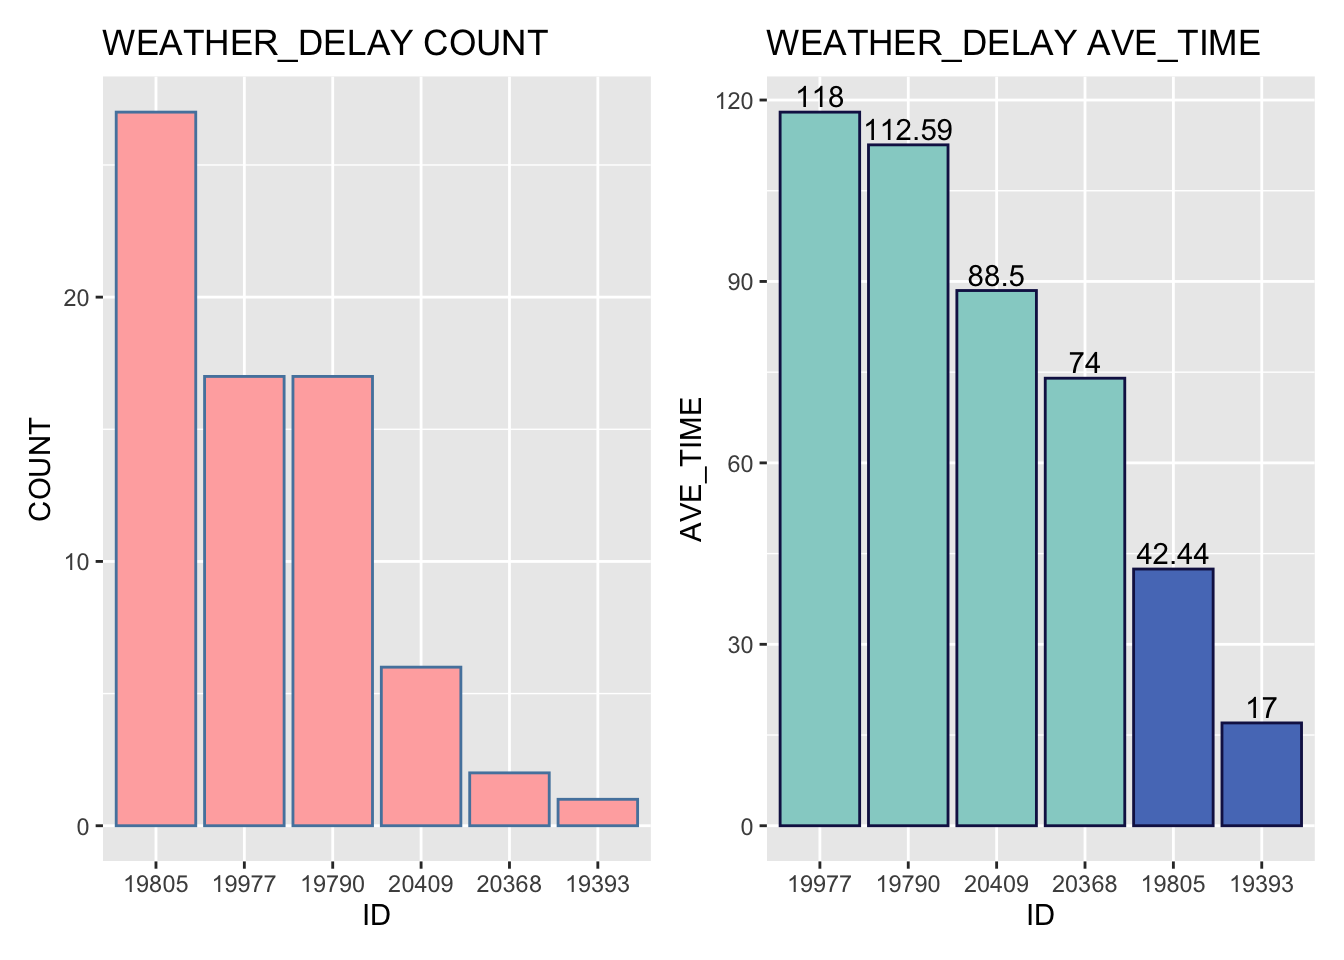
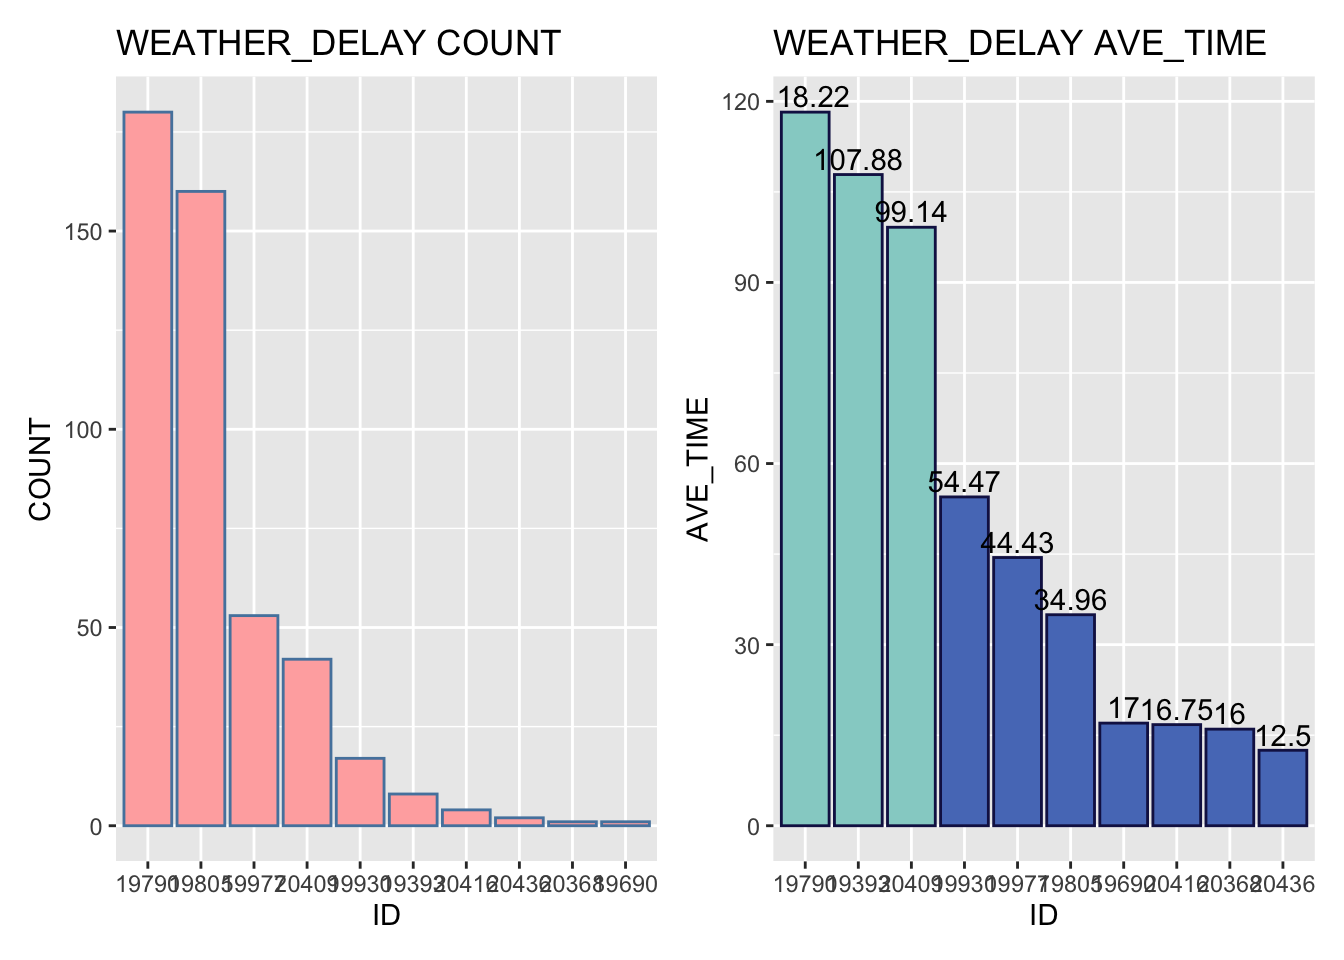
used US data in results part; problem 1 commentary done

Changed region(s): [[0.0625, 0.0312, 1.0, 0.9688]]

diff --git a/docs/results.html b/docs/results.html
@@ -24,7 +24,7 @@
 <meta name="author" content="Ziyan Liu, Mingyue Xu" />
 
 
-<meta name="date" content="2021-12-10" />
+<meta name="date" content="2021-12-11" />
 
   <meta name="viewport" content="width=device-width, initial-scale=1" />
   <meta name="apple-mobile-web-app-capable" content="yes" />
@@ -77,7 +77,11 @@
 <li class="chapter" data-level="2" data-path="data-sources.html"><a href="data-sources.html"><i class="fa fa-check"></i><b>2</b> Data sources</a></li>
 <li class="chapter" data-level="3" data-path="data-transformation.html"><a href="data-transformation.html"><i class="fa fa-check"></i><b>3</b> Data transformation</a></li>
 <li class="chapter" data-level="4" data-path="missing-values.html"><a href="missing-values.html"><i class="fa fa-check"></i><b>4</b> Missing values</a></li>
-<li class="chapter" data-level="5" data-path="results.html"><a href="results.html"><i class="fa fa-check"></i><b>5</b> Results</a></li>
+<li class="chapter" data-level="5" data-path="results.html"><a href="results.html"><i class="fa fa-check"></i><b>5</b> Results</a>
+<ul>
+<li class="chapter" data-level="5.0.1" data-path="results.html"><a href="results.html#compare-carriers-on-time-performance"><i class="fa fa-check"></i><b>5.0.1</b> Compare Carriers’ On-Time Performance</a></li>
+<li class="chapter" data-level="5.0.2" data-path="results.html"><a href="results.html#on-time-performance-accross-the-day"><i class="fa fa-check"></i><b>5.0.2</b> On-Time Performance Accross the Day</a></li>
+</ul></li>
 <li class="chapter" data-level="6" data-path="interactive-component.html"><a href="interactive-component.html"><i class="fa fa-check"></i><b>6</b> Interactive component</a></li>
 <li class="chapter" data-level="7" data-path="conclusion.html"><a href="conclusion.html"><i class="fa fa-check"></i><b>7</b> Conclusion</a></li>
 <li class="divider"></li>
@@ -101,22 +105,39 @@
             <section class="normal" id="section-">
 <div id="results" class="section level1" number="5">
 <h1><span class="header-section-number">Chapter 5</span> Results</h1>
-<p>PROBLEM ONE: Among all the carriers that provide commercial services in U.S., are there any carriers that have major delay problems? For example, the average delay time is over 60 minutes.</p>
+<!-- PROBLEM ONE: Among all the carriers that provide commercial services in U.S., are there any carriers that have major delay problems? For example, the average delay time is over 60 minutes. -->
+<div id="compare-carriers-on-time-performance" class="section level3" number="5.0.1">
+<h3><span class="header-section-number">5.0.1</span> Compare Carriers’ On-Time Performance</h3>
+<p>As we can see from the figure below, <code>Delta Air Lines Inc.</code> have over 3,000 flights delayed during January 2019 from and to New York state, <code>American Airlines Inc.</code> also have more than 2,000 flights delayed, and the number is approximately 1.200 for <code>JetBlue Airways</code>. This is justifiable since these are the major airlines that conduct the most domestic flights, and the number of delayed flights, certainly, increases as the number of total conducted flights increases. Note that this figure only shows the number of times that delay occurs. On the other side, we need to evaluate the average severity of the delays, i.e. the average time of the delays for each carrier.</p>
 <p><img src="finalproj_files/figure-html/airline%20delay%20count-1.png" width="672" /></p>
-<p>The dataframe <code>NY_Jan_delayCount</code> shows the number of delays for each carrier within the January. We plot a simple bar graph to manifest the result more explicitly. Note that this figure only shows the number of times that the delay occurs, on the other side, we need to evaluate the averaged severity of the delays, i.e. the averaged time of the delays for each carrier.</p>
+<!-- The dataframe `NY_Jan_delayCount` shows the number of delays for each carrier within January. We plot a simple bar graph to manifest the result more explicitly. Note that this figure only shows the number of times that the delay occurs, on the other side, we need to evaluate the averaged severity of the delays, i.e. the averaged time of the delays for each carrier. -->
+<p>Therefore, we make another bar plot manifesting the average delay time for each carrier airline. Using the same dataset as above (flights from and to New York state during January 2019), we can see that <code>United Air Lines Inc</code> have the longest average delay time of 104.83 minutes. <code>Hawaiian Airlines Inc.</code>, <code>Spirit Air Lines</code>, <code>Delta Air Lines Inc.</code>, <code>JetBlue Airways</code>, <code>American Airlines Inc.</code> and <code>Frontier Airlines Inc.</code> all have average delay time longer than an hour.</p>
 <p><img src="finalproj_files/figure-html/airline%20delay%20average-1.png" width="672" /></p>
-<p>Moreover, we hope to explore the results for concrete delay reasons, i.e. <code>CARRIER_DELAY</code>, <code>WEATHER_DELAY</code>, <code>NAS_DELAY</code>, <code>SECURITY_DELAY</code> and <code>LATE_AIRCRAFT_DELAY</code>,</p>
+<p>Moreover, we hope to explore the results for concrete delay reasons, i.e. <code>CARRIER_DELAY</code>, <code>WEATHER_DELAY</code>, <code>NAS_DELAY</code>, <code>SECURITY_DELAY</code> and <code>LATE_AIRCRAFT_DELAY</code>. For each reason, we make two figures showing the count of delays and average delay time with respect to each carrier.
+From the figures, we can find that the most common and severe reason causing flight delays is <code>LATE_AIRCRAFT_DELAY</code>, which presumably can be due to the late arrival or preceding flights. There are almost 2,000 <code>Delta Air Lines Inc.</code> flights are delayed due to this reason, and the average waiting time exceeds 2 hours for <code>Hawaiian Airlines Inc.</code> flights.
+The second most common reason is <code>NAS_DELAY</code>, i.e., national air system delay, but the average time caused by this is typically not as long as that caused by other reasons, mostly within an hour.
+<code>CARRIER_DELAY</code> is the third most common reason that causes delays. This happens a lot of times for <code>Delta Air Lines Inc.</code>, <code>JetBlue Airways</code>, and <code>American Airlines Inc.</code>. On average, when this happens, the waiting time for <code>United Air Lines Inc.</code> flights is over 100 minutes.
+<code>WEATHER_DELAY</code> is less frequent than the three above. <code>Delta Air Lines Inc.</code> and <code>American Airlines Inc.</code> have about 150 delays caused by weather, which is a very small proportion of all delays. However, the time is highly variable- the longest is 118 minutes for <code>Delta Air Lines Inc.</code>, and the shortest is only 12.5 minutes.
+Among all 5 reasons, <code>SECURITY_DELAY</code> is the rarest, and only occurs 15 times. Therefore, we do not discuss this reason in detail.</p>
 <p><img src="finalproj_files/figure-html/delay%20reason-1.png" width="672" /><img src="finalproj_files/figure-html/delay%20reason-2.png" width="672" /><img src="finalproj_files/figure-html/delay%20reason-3.png" width="672" /><img src="finalproj_files/figure-html/delay%20reason-4.png" width="672" /><img src="finalproj_files/figure-html/delay%20reason-5.png" width="672" /></p>
-<p>PROBLEM TWO: Are early flights or late flights more likely to delay? Do origin and destination influence the on-time performance?</p>
+<!-- PROBLEM TWO: Are early flights or late flights more likely to delay? Do origin and destination influence the on-time performance? -->
+</div>
+<div id="on-time-performance-accross-the-day" class="section level3" number="5.0.2">
+<h3><span class="header-section-number">5.0.2</span> On-Time Performance Accross the Day</h3>
+<p>In addition to comparing the differences among the various airlines, we also compared the on-time performance of flights at difference time of a day. We divide the 24 hours of a day into 8 groups, one group every three hours, and calculated the average delay time of departure and arrival. As we can see in the plot below, flight performance of 2020 is obviously better than in 2019. The green horizontal line at level 0 indicates the flight delays or not. Specifically, flights in 2020 almost arrive in advance to their destination no matter they departs lately or not. Unfortunately, flights in 2019 almost depart lately. Moreover, late flights seem to performance worse than early flights in general.</p>
 <p><img src="finalproj_files/figure-html/performance%20based%20on%20CRS_DEP_TIME-1.png" width="672" /></p>
 <p><img src="finalproj_files/figure-html/unnamed-chunk-6-1.png" width="672" /></p>
+<p>The plot shows the performance of flights from NY to other states within US. Almost all subgraphs indicate similar conclusions in the previous picture, i.e. flight performance of 2020 is obviously better than in 2019, and also late flights seem to performance worse than early flights. Note that flights to some destinations e.g. HI, MT, NM, are only provided in certain periods, which may caused by the distance and passenger volume.</p>
 <pre><code>##  [1] &quot;12&quot; &quot;03&quot; &quot;06&quot; &quot;09&quot; &quot;01&quot; &quot;04&quot; &quot;07&quot; &quot;10&quot; &quot;02&quot; &quot;05&quot; &quot;08&quot; &quot;11&quot;</code></pre>
 <p><img src="finalproj_files/figure-html/unnamed-chunk-7-1.png" width="672" /></p>
-<p><img src="finalproj_files/figure-html/unnamed-chunk-8-1.png" width="672" /></p>
+<p>The plot above shows flights performance in each months, which also yields the two conclusions mentioned berofe. Moreover, some other interesting observations are: (1) Note that in winter (Dec, Jan, Feb), flight performance is in general worse than in other seasons, especially for those late flights, which may due to the cold weather. (2) Season Fall seems to have the best flight performance.</p>
+<p><img src="finalproj_files/figure-html/unnamed-chunk-8-1.png" width="672" /><img src="finalproj_files/figure-html/unnamed-chunk-8-2.png" width="672" /></p>
+<p>3D plot is more powerful to show the variation of a quantity grouped by multi-indexes.</p>
 <p>PROBLEM THREE: Specifically for NYC. If someone wants to come to NYC, which airport should s/he choose to fly to based on the origin city?</p>
 <p><img src="finalproj_files/figure-html/to%20NYC%20problem-1.png" width="672" /></p>
 <p><img src="finalproj_files/figure-html/unnamed-chunk-9-1.png" width="672" /></p>
 
+</div>
 </div>
             </section>
 

diff --git a/docs/data-transformation.html b/docs/data-transformation.html
@@ -24,7 +24,7 @@
 <meta name="author" content="Ziyan Liu, Mingyue Xu" />
 
 
-<meta name="date" content="2021-12-10" />
+<meta name="date" content="2021-12-11" />
 
   <meta name="viewport" content="width=device-width, initial-scale=1" />
   <meta name="apple-mobile-web-app-capable" content="yes" />
@@ -77,7 +77,11 @@
 <li class="chapter" data-level="2" data-path="data-sources.html"><a href="data-sources.html"><i class="fa fa-check"></i><b>2</b> Data sources</a></li>
 <li class="chapter" data-level="3" data-path="data-transformation.html"><a href="data-transformation.html"><i class="fa fa-check"></i><b>3</b> Data transformation</a></li>
 <li class="chapter" data-level="4" data-path="missing-values.html"><a href="missing-values.html"><i class="fa fa-check"></i><b>4</b> Missing values</a></li>
-<li class="chapter" data-level="5" data-path="results.html"><a href="results.html"><i class="fa fa-check"></i><b>5</b> Results</a></li>
+<li class="chapter" data-level="5" data-path="results.html"><a href="results.html"><i class="fa fa-check"></i><b>5</b> Results</a>
+<ul>
+<li class="chapter" data-level="5.0.1" data-path="results.html"><a href="results.html#compare-carriers-on-time-performance"><i class="fa fa-check"></i><b>5.0.1</b> Compare Carriers’ On-Time Performance</a></li>
+<li class="chapter" data-level="5.0.2" data-path="results.html"><a href="results.html#on-time-performance-accross-the-day"><i class="fa fa-check"></i><b>5.0.2</b> On-Time Performance Accross the Day</a></li>
+</ul></li>
 <li class="chapter" data-level="6" data-path="interactive-component.html"><a href="interactive-component.html"><i class="fa fa-check"></i><b>6</b> Interactive component</a></li>
 <li class="chapter" data-level="7" data-path="conclusion.html"><a href="conclusion.html"><i class="fa fa-check"></i><b>7</b> Conclusion</a></li>
 <li class="divider"></li>
@@ -101,7 +105,7 @@
             <section class="normal" id="section-">
 <div id="data-transformation" class="section level1" number="3">
 <h1><span class="header-section-number">Chapter 3</span> Data transformation</h1>
-<p>The downloaded monthly data are stored in csv files, so we simply read the data with R function <code>read.csv</code> and store them in respective variables. Then we combine them by year using ‘rbind’ function to variables <code>US_2019</code> and <code>US_2020</code>.</p>
+<p>The downloaded monthly data are stored in csv files, so we simply read the data with R function <code>read.csv</code> and store them in respective variables. Then we combine them by year using <code>rbind</code> function in variables <code>US_2019</code> and <code>US_2020</code>.</p>
 
 </div>
             </section>

diff --git a/docs/index.html b/docs/index.html
@@ -24,7 +24,7 @@
 <meta name="author" content="Ziyan Liu, Mingyue Xu" />
 
 
-<meta name="date" content="2021-12-10" />
+<meta name="date" content="2021-12-11" />
 
   <meta name="viewport" content="width=device-width, initial-scale=1" />
   <meta name="apple-mobile-web-app-capable" content="yes" />
@@ -77,7 +77,11 @@
 <li class="chapter" data-level="2" data-path="data-sources.html"><a href="data-sources.html"><i class="fa fa-check"></i><b>2</b> Data sources</a></li>
 <li class="chapter" data-level="3" data-path="data-transformation.html"><a href="data-transformation.html"><i class="fa fa-check"></i><b>3</b> Data transformation</a></li>
 <li class="chapter" data-level="4" data-path="missing-values.html"><a href="missing-values.html"><i class="fa fa-check"></i><b>4</b> Missing values</a></li>
-<li class="chapter" data-level="5" data-path="results.html"><a href="results.html"><i class="fa fa-check"></i><b>5</b> Results</a></li>
+<li class="chapter" data-level="5" data-path="results.html"><a href="results.html"><i class="fa fa-check"></i><b>5</b> Results</a>
+<ul>
+<li class="chapter" data-level="5.0.1" data-path="results.html"><a href="results.html#compare-carriers-on-time-performance"><i class="fa fa-check"></i><b>5.0.1</b> Compare Carriers’ On-Time Performance</a></li>
+<li class="chapter" data-level="5.0.2" data-path="results.html"><a href="results.html#on-time-performance-accross-the-day"><i class="fa fa-check"></i><b>5.0.2</b> On-Time Performance Accross the Day</a></li>
+</ul></li>
 <li class="chapter" data-level="6" data-path="interactive-component.html"><a href="interactive-component.html"><i class="fa fa-check"></i><b>6</b> Interactive component</a></li>
 <li class="chapter" data-level="7" data-path="conclusion.html"><a href="conclusion.html"><i class="fa fa-check"></i><b>7</b> Conclusion</a></li>
 <li class="divider"></li>
@@ -102,7 +106,7 @@
 <div id="header">
 <h1 class="title">Flight Performance Analysis</h1>
 <p class="author"><em>Ziyan Liu, Mingyue Xu</em></p>
-<p class="date"><em>2021-12-10</em></p>
+<p class="date"><em>2021-12-11</em></p>
 </div>
 <div id="introduction" class="section level1" number="1">
 <h1><span class="header-section-number">Chapter 1</span> Introduction</h1>

diff --git a/docs/404.html b/docs/404.html
@@ -24,7 +24,7 @@
 <meta name="author" content="Ziyan Liu, Mingyue Xu" />
 
 
-<meta name="date" content="2021-12-10" />
+<meta name="date" content="2021-12-11" />
 
   <meta name="viewport" content="width=device-width, initial-scale=1" />
   <meta name="apple-mobile-web-app-capable" content="yes" />
@@ -77,7 +77,11 @@
 <li class="chapter" data-level="2" data-path="data-sources.html"><a href="data-sources.html"><i class="fa fa-check"></i><b>2</b> Data sources</a></li>
 <li class="chapter" data-level="3" data-path="data-transformation.html"><a href="data-transformation.html"><i class="fa fa-check"></i><b>3</b> Data transformation</a></li>
 <li class="chapter" data-level="4" data-path="missing-values.html"><a href="missing-values.html"><i class="fa fa-check"></i><b>4</b> Missing values</a></li>
-<li class="chapter" data-level="5" data-path="results.html"><a href="results.html"><i class="fa fa-check"></i><b>5</b> Results</a></li>
+<li class="chapter" data-level="5" data-path="results.html"><a href="results.html"><i class="fa fa-check"></i><b>5</b> Results</a>
+<ul>
+<li class="chapter" data-level="5.0.1" data-path="results.html"><a href="results.html#compare-carriers-on-time-performance"><i class="fa fa-check"></i><b>5.0.1</b> Compare Carriers’ On-Time Performance</a></li>
+<li class="chapter" data-level="5.0.2" data-path="results.html"><a href="results.html#on-time-performance-accross-the-day"><i class="fa fa-check"></i><b>5.0.2</b> On-Time Performance Accross the Day</a></li>
+</ul></li>
 <li class="chapter" data-level="6" data-path="interactive-component.html"><a href="interactive-component.html"><i class="fa fa-check"></i><b>6</b> Interactive component</a></li>
 <li class="chapter" data-level="7" data-path="conclusion.html"><a href="conclusion.html"><i class="fa fa-check"></i><b>7</b> Conclusion</a></li>
 <li class="divider"></li>

diff --git a/docs/conclusion.html b/docs/conclusion.html
@@ -24,7 +24,7 @@
 <meta name="author" content="Ziyan Liu, Mingyue Xu" />
 
 
-<meta name="date" content="2021-12-10" />
+<meta name="date" content="2021-12-11" />
 
   <meta name="viewport" content="width=device-width, initial-scale=1" />
   <meta name="apple-mobile-web-app-capable" content="yes" />
@@ -77,7 +77,11 @@
 <li class="chapter" data-level="2" data-path="data-sources.html"><a href="data-sources.html"><i class="fa fa-check"></i><b>2</b> Data sources</a></li>
 <li class="chapter" data-level="3" data-path="data-transformation.html"><a href="data-transformation.html"><i class="fa fa-check"></i><b>3</b> Data transformation</a></li>
 <li class="chapter" data-level="4" data-path="missing-values.html"><a href="missing-values.html"><i class="fa fa-check"></i><b>4</b> Missing values</a></li>
-<li class="chapter" data-level="5" data-path="results.html"><a href="results.html"><i class="fa fa-check"></i><b>5</b> Results</a></li>
+<li class="chapter" data-level="5" data-path="results.html"><a href="results.html"><i class="fa fa-check"></i><b>5</b> Results</a>
+<ul>
+<li class="chapter" data-level="5.0.1" data-path="results.html"><a href="results.html#compare-carriers-on-time-performance"><i class="fa fa-check"></i><b>5.0.1</b> Compare Carriers’ On-Time Performance</a></li>
+<li class="chapter" data-level="5.0.2" data-path="results.html"><a href="results.html#on-time-performance-accross-the-day"><i class="fa fa-check"></i><b>5.0.2</b> On-Time Performance Accross the Day</a></li>
+</ul></li>
 <li class="chapter" data-level="6" data-path="interactive-component.html"><a href="interactive-component.html"><i class="fa fa-check"></i><b>6</b> Interactive component</a></li>
 <li class="chapter" data-level="7" data-path="conclusion.html"><a href="conclusion.html"><i class="fa fa-check"></i><b>7</b> Conclusion</a></li>
 <li class="divider"></li>

diff --git a/docs/data-sources.html b/docs/data-sources.html
@@ -24,7 +24,7 @@
 <meta name="author" content="Ziyan Liu, Mingyue Xu" />
 
 
-<meta name="date" content="2021-12-10" />
+<meta name="date" content="2021-12-11" />
 
   <meta name="viewport" content="width=device-width, initial-scale=1" />
   <meta name="apple-mobile-web-app-capable" content="yes" />
@@ -77,7 +77,11 @@
 <li class="chapter" data-level="2" data-path="data-sources.html"><a href="data-sources.html"><i class="fa fa-check"></i><b>2</b> Data sources</a></li>
 <li class="chapter" data-level="3" data-path="data-transformation.html"><a href="data-transformation.html"><i class="fa fa-check"></i><b>3</b> Data transformation</a></li>
 <li class="chapter" data-level="4" data-path="missing-values.html"><a href="missing-values.html"><i class="fa fa-check"></i><b>4</b> Missing values</a></li>
-<li class="chapter" data-level="5" data-path="results.html"><a href="results.html"><i class="fa fa-check"></i><b>5</b> Results</a></li>
+<li class="chapter" data-level="5" data-path="results.html"><a href="results.html"><i class="fa fa-check"></i><b>5</b> Results</a>
+<ul>
+<li class="chapter" data-level="5.0.1" data-path="results.html"><a href="results.html#compare-carriers-on-time-performance"><i class="fa fa-check"></i><b>5.0.1</b> Compare Carriers’ On-Time Performance</a></li>
+<li class="chapter" data-level="5.0.2" data-path="results.html"><a href="results.html#on-time-performance-accross-the-day"><i class="fa fa-check"></i><b>5.0.2</b> On-Time Performance Accross the Day</a></li>
+</ul></li>
 <li class="chapter" data-level="6" data-path="interactive-component.html"><a href="interactive-component.html"><i class="fa fa-check"></i><b>6</b> Interactive component</a></li>
 <li class="chapter" data-level="7" data-path="conclusion.html"><a href="conclusion.html"><i class="fa fa-check"></i><b>7</b> Conclusion</a></li>
 <li class="divider"></li>

diff --git a/docs/interactive-component.html b/docs/interactive-component.html
@@ -24,7 +24,7 @@
 <meta name="author" content="Ziyan Liu, Mingyue Xu" />
 
 
-<meta name="date" content="2021-12-10" />
+<meta name="date" content="2021-12-11" />
 
   <meta name="viewport" content="width=device-width, initial-scale=1" />
   <meta name="apple-mobile-web-app-capable" content="yes" />
@@ -77,7 +77,11 @@
 <li class="chapter" data-level="2" data-path="data-sources.html"><a href="data-sources.html"><i class="fa fa-check"></i><b>2</b> Data sources</a></li>
 <li class="chapter" data-level="3" data-path="data-transformation.html"><a href="data-transformation.html"><i class="fa fa-check"></i><b>3</b> Data transformation</a></li>
 <li class="chapter" data-level="4" data-path="missing-values.html"><a href="missing-values.html"><i class="fa fa-check"></i><b>4</b> Missing values</a></li>
-<li class="chapter" data-level="5" data-path="results.html"><a href="results.html"><i class="fa fa-check"></i><b>5</b> Results</a></li>
+<li class="chapter" data-level="5" data-path="results.html"><a href="results.html"><i class="fa fa-check"></i><b>5</b> Results</a>
+<ul>
+<li class="chapter" data-level="5.0.1" data-path="results.html"><a href="results.html#compare-carriers-on-time-performance"><i class="fa fa-check"></i><b>5.0.1</b> Compare Carriers’ On-Time Performance</a></li>
+<li class="chapter" data-level="5.0.2" data-path="results.html"><a href="results.html#on-time-performance-accross-the-day"><i class="fa fa-check"></i><b>5.0.2</b> On-Time Performance Accross the Day</a></li>
+</ul></li>
 <li class="chapter" data-level="6" data-path="interactive-component.html"><a href="interactive-component.html"><i class="fa fa-check"></i><b>6</b> Interactive component</a></li>
 <li class="chapter" data-level="7" data-path="conclusion.html"><a href="conclusion.html"><i class="fa fa-check"></i><b>7</b> Conclusion</a></li>
 <li class="divider"></li>

diff --git a/docs/missing-values.html b/docs/missing-values.html
@@ -24,7 +24,7 @@
 <meta name="author" content="Ziyan Liu, Mingyue Xu" />
 
 
-<meta name="date" content="2021-12-10" />
+<meta name="date" content="2021-12-11" />
 
   <meta name="viewport" content="width=device-width, initial-scale=1" />
   <meta name="apple-mobile-web-app-capable" content="yes" />
@@ -77,7 +77,11 @@
 <li class="chapter" data-level="2" data-path="data-sources.html"><a href="data-sources.html"><i class="fa fa-check"></i><b>2</b> Data sources</a></li>
 <li class="chapter" data-level="3" data-path="data-transformation.html"><a href="data-transformation.html"><i class="fa fa-check"></i><b>3</b> Data transformation</a></li>
 <li class="chapter" data-level="4" data-path="missing-values.html"><a href="missing-values.html"><i class="fa fa-check"></i><b>4</b> Missing values</a></li>
-<li class="chapter" data-level="5" data-path="results.html"><a href="results.html"><i class="fa fa-check"></i><b>5</b> Results</a></li>
+<li class="chapter" data-level="5" data-path="results.html"><a href="results.html"><i class="fa fa-check"></i><b>5</b> Results</a>
+<ul>
+<li class="chapter" data-level="5.0.1" data-path="results.html"><a href="results.html#compare-carriers-on-time-performance"><i class="fa fa-check"></i><b>5.0.1</b> Compare Carriers’ On-Time Performance</a></li>
+<li class="chapter" data-level="5.0.2" data-path="results.html"><a href="results.html#on-time-performance-accross-the-day"><i class="fa fa-check"></i><b>5.0.2</b> On-Time Performance Accross the Day</a></li>
+</ul></li>
 <li class="chapter" data-level="6" data-path="interactive-component.html"><a href="interactive-component.html"><i class="fa fa-check"></i><b>6</b> Interactive component</a></li>
 <li class="chapter" data-level="7" data-path="conclusion.html"><a href="conclusion.html"><i class="fa fa-check"></i><b>7</b> Conclusion</a></li>
 <li class="divider"></li>
